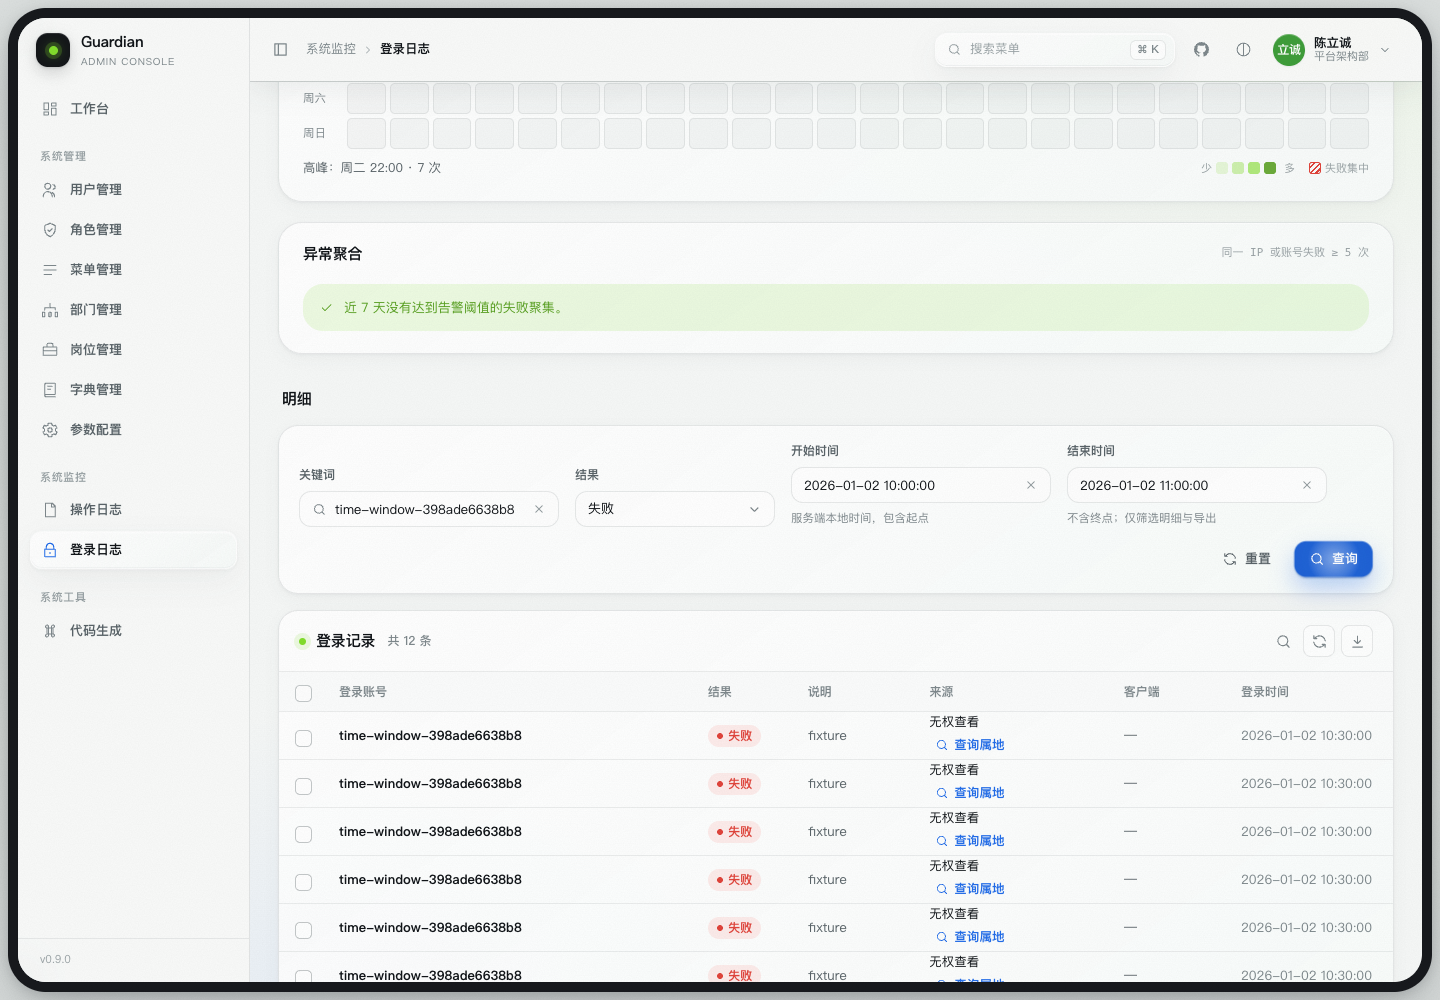
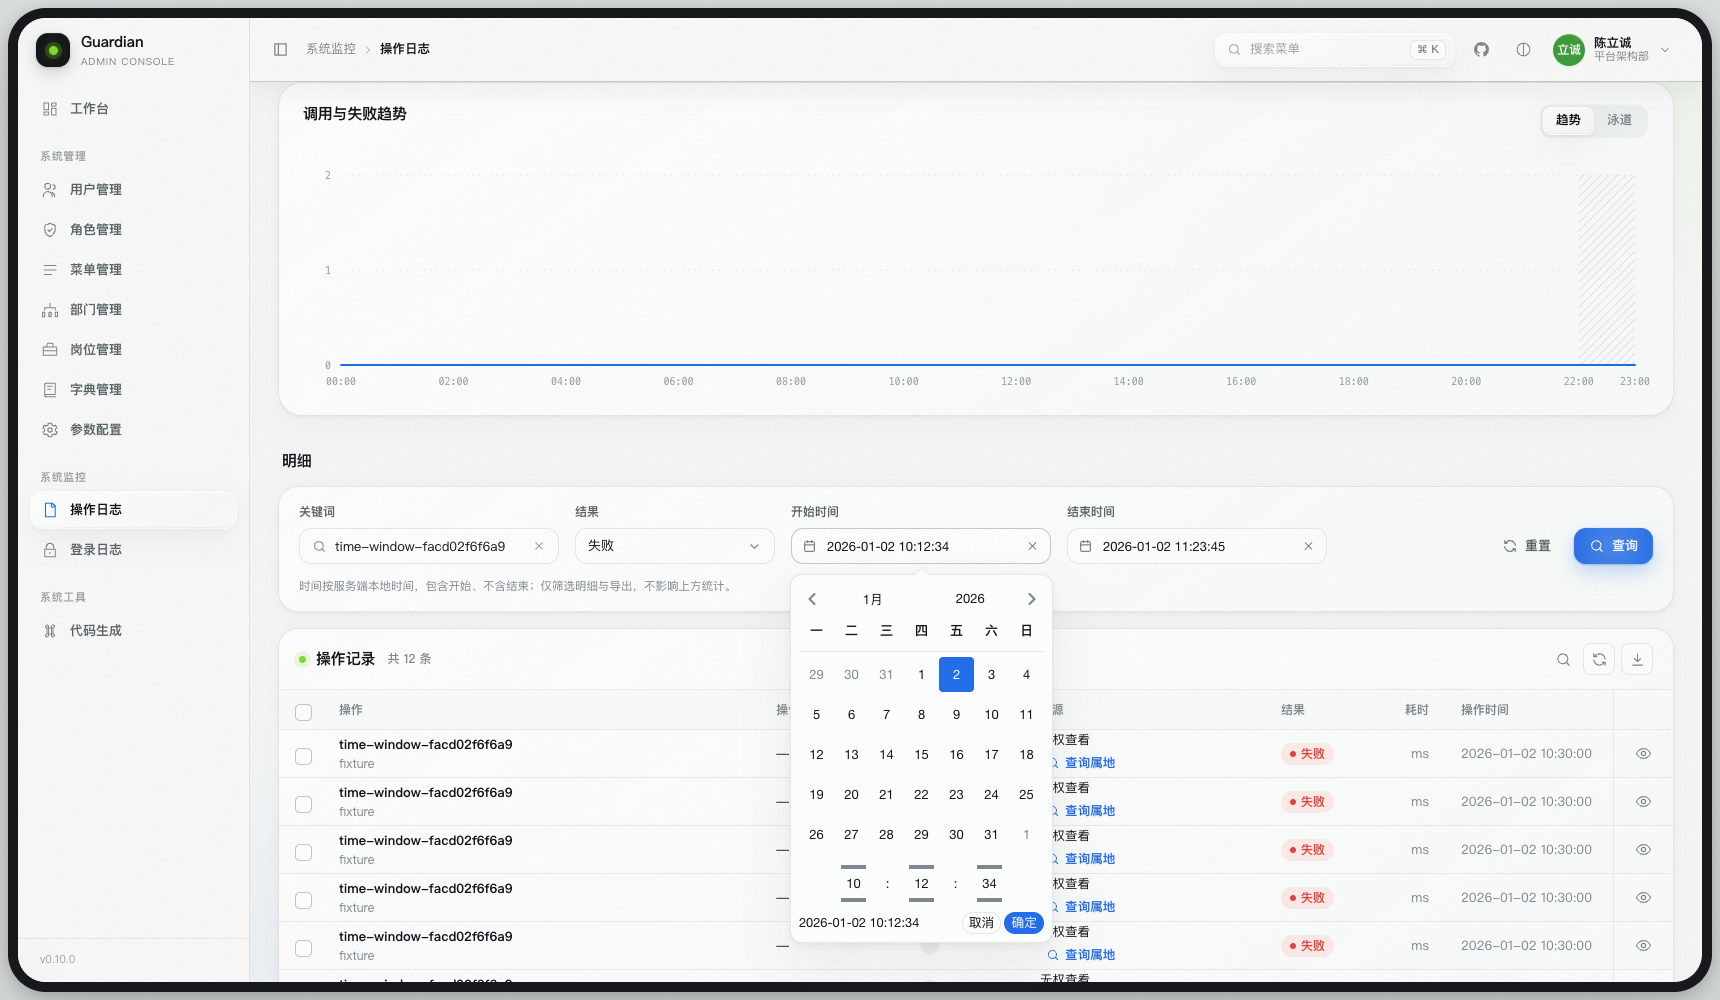
fix: 修复日志日期时间选择与筛选控件对齐 (#37)
两类日志使用现成日期及时分秒选择组件，修正四框对齐、短屏弹层与键盘焦点；保留本地时间字符串契约，真实浏览器生产构建回归与前端CI通过。关联 #32。

署名：GPT-6-Astra-Ultra

diff --git a/frontend/src/components/ui/DateTimePicker.vue b/frontend/src/components/ui/DateTimePicker.vue
@@ -1,0 +1,51 @@
+<script setup lang="ts">
+import { VueDatePicker, type TimeKey } from '@vuepic/vue-datepicker'
+import { zhCN } from 'date-fns/locale/zh-CN'
+import { nextTick, useId, useTemplateRef } from 'vue'
+
+defineProps<{ modelValue: string; label: string }>()
+const emit = defineEmits<{ (e: 'update:modelValue', value: string): void }>()
+const units = { hours: '小时', minutes: '分钟', seconds: '秒' }
+const format = 'yyyy-MM-dd HH:mm:ss'
+const picker = useTemplateRef('picker')
+const menuId = useId()
+
+function restoreFocus() {
+  if (picker.value?.dpMenuRef()?.value?.$el?.contains(document.activeElement)) {
+    void nextTick(() => picker.value?.inputRef()?.value?.focusInput())
+  }
+}
+</script>
+
+<template>
+  <!-- 字符串代表服务端墙上时间；中性时区仅防止浏览器 DST 改写选中的时分秒。 -->
+  <VueDatePicker
+    ref="picker"
+    class="datetime-picker"
+    :menu-id="menuId"
+    :model-value="modelValue || null"
+    :model-type="format"
+    :formats="{ input: format, preview: format }"
+    timezone="UTC"
+    :locale="zhCN"
+    :time-config="{ enableSeconds: true, timePickerInline: true, minutesGridIncrement: 1, secondsGridIncrement: 1, startTime: { hours: 0, minutes: 0, seconds: 0 } }"
+    :action-row="{ selectBtnLabel: '确定', cancelBtnLabel: '取消' }"
+    :aria-labels="{
+      input: label, menu: `${label}选择`, clearInput: `清空${label}`, calendarIcon: '选择日期时间',
+      openMonthsOverlay: '选择月份', openYearsOverlay: '选择年份',
+      nextMonth: '下个月', prevMonth: '上个月', nextYear: '下一年', prevYear: '上一年',
+      monthPicker: () => '月份', yearPicker: () => '年份',
+      timePicker: '选择时间', toggleOverlay: '返回',
+      openTpOverlay: (unit: TimeKey) => `选择${units[unit]}`,
+      incrementValue: (unit: TimeKey) => `增加${units[unit]}`, decrementValue: (unit: TimeKey) => `减少${units[unit]}`,
+      timeOverlay: (unit: TimeKey) => units[unit],
+    }"
+    :ui="{ menu: 'datetime-menu' }"
+    :floating="{ shift: { crossAxis: true, padding: 8 } }"
+    :transitions="false"
+    teleport
+    placeholder="选择日期和时间"
+    @update:model-value="emit('update:modelValue', $event ?? '')"
+    @closed="restoreFocus"
+  />
+</template>

diff --git a/frontend/src/views/monitor/LoginLog.vue b/frontend/src/views/monitor/LoginLog.vue
@@ -2,7 +2,7 @@
 import { computed, nextTick, onMounted, ref, watch } from 'vue'
 import { useRoute } from 'vue-router'
 import Icon from '@/components/Icon.vue'
-import { Button, Field, Metric, SectionLabel, Segmented, Select, Tag, TextInput, type Column } from '@/components/ui'
+import { Button, DateTimePicker, Field, Metric, SectionLabel, Segmented, Select, Tag, TextInput, type Column } from '@/components/ui'
 import { ListPage, PermissionButton } from '@/components/business'
 import TrendChart from '@/components/charts/TrendChart.vue'
 import HeatGrid from '@/components/charts/HeatGrid.vue'
@@ -202,12 +202,13 @@ async function clearAll() {
       <Field label="结果">
         <Select v-model="list.query.status" :options="STATUSES" />
       </Field>
-      <Field label="开始时间" wide hint="服务端本地时间，包含起点">
-        <TextInput v-model="list.query.startTime" placeholder="YYYY-MM-DD HH:MM:SS" clearable />
+      <Field label="开始时间" wide group>
+        <DateTimePicker v-model="list.query.startTime" label="开始时间" />
       </Field>
-      <Field label="结束时间" wide hint="不含终点；仅筛选明细与导出">
-        <TextInput v-model="list.query.endTime" placeholder="YYYY-MM-DD HH:MM:SS" clearable />
+      <Field label="结束时间" wide group>
+        <DateTimePicker v-model="list.query.endTime" label="结束时间" />
       </Field>
+      <p class="search-hint">时间按服务端本地时间，包含开始、不含结束；仅筛选明细与导出，不影响上方统计。</p>
     </template>
 
     <template #tools>

diff --git a/frontend/src/views/monitor/OperLog.vue b/frontend/src/views/monitor/OperLog.vue
@@ -1,7 +1,7 @@
 <script setup lang="ts">
 import { computed, nextTick, onMounted, ref, watch } from 'vue'
 import { useRoute } from 'vue-router'
-import { Button, Drawer, Field, Metric, SectionLabel, Segmented, Select, Tag, TextInput, type Column } from '@/components/ui'
+import { Button, DateTimePicker, Drawer, Field, Metric, SectionLabel, Segmented, Select, Tag, TextInput, type Column } from '@/components/ui'
 import { ListPage, PermissionButton } from '@/components/business'
 import TrendChart from '@/components/charts/TrendChart.vue'
 import Swimlane from '@/components/charts/Swimlane.vue'
@@ -199,12 +199,13 @@ async function clearAll() {
       <Field label="结果">
         <Select v-model="list.query.result" :options="RESULTS" />
       </Field>
-      <Field label="开始时间" wide hint="服务端本地时间，包含起点">
-        <TextInput v-model="list.query.startTime" placeholder="YYYY-MM-DD HH:MM:SS" clearable />
+      <Field label="开始时间" wide group>
+        <DateTimePicker v-model="list.query.startTime" label="开始时间" />
       </Field>
-      <Field label="结束时间" wide hint="不含终点；仅筛选明细与导出">
-        <TextInput v-model="list.query.endTime" placeholder="YYYY-MM-DD HH:MM:SS" clearable />
+      <Field label="结束时间" wide group>
+        <DateTimePicker v-model="list.query.endTime" label="结束时间" />
       </Field>
+      <p class="search-hint">时间按服务端本地时间，包含开始、不含结束；仅筛选明细与导出，不影响上方统计。</p>
     </template>
 
     <template #tools>

diff --git a/frontend/src/styles/components.css b/frontend/src/styles/components.css
@@ -140,6 +140,34 @@
 }
 .input-shell .input-clear:hover { color: var(--ink-muted); }
 
+/* 日期时间选择器沿用站内令牌，弹层传送到 body 后仍继承主题。 */
+.datetime-picker, .datetime-menu {
+  --dp-font-family: inherit;
+  --dp-font-size: 13px;
+  --dp-border-radius: var(--r-sm);
+  --dp-background-color: var(--surface-solid);
+  --dp-text-color: var(--ink);
+  --dp-hover-color: var(--hover-bg);
+  --dp-hover-text-color: var(--ink);
+  --dp-primary-color: var(--blue);
+  --dp-primary-text-color: #fff;
+  --dp-secondary-color: var(--ink-soft);
+  --dp-border-color: var(--line-strong);
+  --dp-menu-border-color: var(--line-strong);
+  --dp-border-color-hover: var(--ink-soft);
+  --dp-icon-color: var(--ink-soft);
+  --dp-disabled-color: var(--groove-bg);
+}
+.datetime-picker .dp--input {
+  height: var(--control-h);
+  background: var(--input-bg);
+  box-shadow: var(--edge);
+  font-size: 13px;
+}
+.datetime-picker .dp--input::placeholder { color: var(--ink-faint); opacity: 1; }
+.datetime-picker .dp--input:focus-visible { outline: 2px solid var(--focus); outline-offset: 2px; }
+.datetime-menu { box-shadow: var(--e3); }
+
 /* ── 下拉选择 ───────────────────────────────────────────────── */
 .select-trigger {
   width: 100%;

diff --git a/frontend/src/components/__tests__/datetime-picker.test.ts b/frontend/src/components/__tests__/datetime-picker.test.ts
@@ -1,0 +1,13 @@
+import test from 'node:test'
+import assert from 'node:assert/strict'
+import { renderComponent } from './support.ts'
+
+test('日期时间控件声明可访问的选择弹层且空日期不默认填入当前时间', async () => {
+  const html = await renderComponent('ui/DateTimePicker.vue', { modelValue: '', label: '结束时间' })
+  assert.match(html, /role="combobox"/)
+  assert.match(html, /aria-label="结束时间"/)
+  assert.match(html, /aria-haspopup="dialog"/)
+  assert.match(html, /aria-controls="[^"]+"/)
+  assert.match(html, / value(?:=""|(?= ))/)
+  assert.match(html, /placeholder="选择日期和时间"/)
+})

diff --git a/frontend/src/styles/layout.css b/frontend/src/styles/layout.css
@@ -303,6 +303,7 @@
 .search-form .field { width: 200px; }
 .search-form .field.is-wide { width: 260px; }
 .search-form .search-actions { display: flex; gap: 8px; margin-left: auto; }
+.search-form .search-hint { order: 1; flex-basis: 100%; margin: 0; font-size: 11.5px; color: var(--ink-soft); }
 
 /* ── 左树右表 ───────────────────────────────────────────────── */
 .split {

diff --git a/frontend/src/components/ui/index.ts b/frontend/src/components/ui/index.ts
@@ -2,6 +2,7 @@ export { default as Button } from './Button.vue'
 export { default as IconButton } from './IconButton.vue'
 export { default as Field } from './Field.vue'
 export { default as TextInput } from './TextInput.vue'
+export { default as DateTimePicker } from './DateTimePicker.vue'
 export { default as Select } from './Select.vue'
 export { default as Checkbox } from './Checkbox.vue'
 export { default as MultiCheck } from './MultiCheck.vue'

diff --git a/frontend/src/main.ts b/frontend/src/main.ts
@@ -5,6 +5,7 @@ import { installPermissionDirective } from './directives/permission'
 import { installHoverLift, installPressFeedback, installRipple } from './composables/motion'
 
 // 设计令牌 → 基础 → 材质 → 控件 → 外壳 → 页面
+import '@vuepic/vue-datepicker/dist/main.css'
 import './styles/tokens.css'
 import './styles/base.css'
 import './styles/materials.css'

diff --git a/frontend/scripts/log-window-regression.py b/frontend/scripts/log-window-regression.py
@@ -8,6 +8,7 @@ import csv
 import io
 import os
 from pathlib import Path
+import re
 import secrets
 import sqlite3
 from urllib.parse import parse_qs, urlparse
@@ -17,12 +18,52 @@ from playwright.async_api import async_playwright, expect
 from captcha_solver import solve_captcha
 
 
+async def pick_datetime(page, label, value, confirm=True):
+    """只点击组件的日期和时分秒选项，不用 fill 或注入 model 冒充点选。"""
+    date, time = value.split(" ")
+    year, month, day = map(int, date.split("-"))
+    field = page.get_by_role("search").get_by_role("combobox", name=label, exact=True)
+    await field.click()
+    menu = page.get_by_role("dialog", name=label + "选择", exact=True)
+    await menu.get_by_role("button", name=re.compile("-选择年份$")).click()
+    await menu.get_by_role("option", name=str(year), exact=True).click()
+    await menu.get_by_role("button", name=re.compile("-选择月份$")).click()
+    await menu.get_by_role("option", name=f"{month}月", exact=True).click()
+    month_name = ["一", "二", "三", "四", "五", "六", "七", "八", "九", "十", "十一", "十二"][month - 1]
+    await menu.get_by_role("gridcell", name=f"{month_name}月 {day}日, {year}", exact=True).click()
+    for unit, number in zip(["小时", "分钟", "秒"], time.split(":")):
+        await menu.get_by_role("button", name=re.compile(f"-选择{unit}$")).click()
+        await menu.get_by_role("listbox", name=unit, exact=True).get_by_role("option", name=number, exact=True).click()
+    assert await menu.evaluate("el => { const r = el.getBoundingClientRect(); return r.left >= 0 && r.right <= innerWidth && r.top >= 0 && r.bottom <= innerHeight }"), await menu.bounding_box()
+    if confirm:
+        await menu.get_by_role("button", name="确定", exact=True).click()
+        await expect(field).to_have_value(value)
+        await expect(menu).not_to_be_visible()
+    return menu
+
+
+async def check_alignment(form, width):
+    boxes = await form.locator(".input-shell, .datetime-picker input").evaluate_all(
+        "els => els.map(el => { const r = el.getBoundingClientRect(); return {top: r.top, bottom: r.bottom, left: r.left, right: r.right, height: r.height} })"
+    )
+    assert len(boxes) == 4, boxes
+    assert max(b["height"] for b in boxes) - min(b["height"] for b in boxes) < 0.5, boxes
+    assert all(0 <= b["left"] < b["right"] <= width for b in boxes), boxes
+    if width >= 1440:
+        assert max(b["top"] for b in boxes) - min(b["top"] for b in boxes) < 0.5, boxes
+        assert max(b["bottom"] for b in boxes) - min(b["bottom"] for b in boxes) < 0.5, boxes
+    else:
+        assert max(b["left"] for b in boxes) - min(b["left"] for b in boxes) < 0.5, boxes
+        assert max(b["right"] for b in boxes) - min(b["right"] for b in boxes) < 0.5, boxes
+    return boxes
+
+
 async def main():
     base = os.environ.get("GUARDIAN_TEST_URL", "http://127.0.0.1:5173")
     database = Path(os.environ["GUARDIAN_TEST_DB"]).resolve(strict=True)
     password = os.environ["GUARDIAN_TEST_PASSWORD"]
     keyword = "time-window-" + secrets.token_hex(6)
-    start, end = "2026-01-02 10:00:00", "2026-01-02 11:00:00"
+    start, end = "2026-01-02 10:12:34", "2026-01-02 11:23:45"
     logs = [
         ("oper-logs", "oper-log", "sys_oper_log", "module", "oper_time", "result", "action"),
         ("login-logs", "login-log", "sys_login_log", "username", "login_time", "status", "msg"),
@@ -30,7 +71,7 @@ async def main():
     with sqlite3.connect(database) as db:
         for _, _, table, name, time, status, detail in logs:
             rows = [(keyword, start, 0, "fixture")] + [(keyword, "2026-01-02 10:30:00", 0, "fixture")] * 11
-            rows += [(keyword, t, s, "fixture") for t, s in [("2026-01-02 09:59:59", 0), (end, 0), ("2026-01-02 11:00:01", 0), (start, 1)]]
+            rows += [(keyword, t, s, "fixture") for t, s in [("2026-01-02 10:12:33", 0), (end, 0), ("2026-01-02 11:23:46", 0), (start, 1)]]
             db.executemany(f"INSERT INTO {table} ({name},{time},{status},{detail}) VALUES (?,?,?,?)", rows)
     try:
         async with async_playwright() as pw:
@@ -53,12 +94,12 @@ async def main():
                     form = page.get_by_role("search")
                     await expect(form).to_be_visible()
                     await form.locator(".field").filter(has_text="关键词").locator("input").fill(keyword)
-                    await form.get_by_role("combobox").click()
+                    await form.get_by_role("combobox", name="结果", exact=True).click()
                     await page.get_by_role("option", name="失败", exact=True).click()
-                    start_input = form.get_by_label("开始时间", exact=False)
-                    end_input = form.get_by_label("结束时间", exact=False)
-                    await start_input.fill(start)
-                    await end_input.fill(end)
+                    start_input = form.get_by_role("combobox", name="开始时间", exact=True)
+                    end_input = form.get_by_role("combobox", name="结束时间", exact=True)
+                    await pick_datetime(page, "开始时间", start)
+                    await pick_datetime(page, "结束时间", end)
 
                     async def query(action, expected_total, expected_start=start, expected_end=end, expected_page="1", expected_keyword=keyword):
                         async with page.expect_response(lambda response: urlparse(response.url).path == f"/api/v1/monitor/{resource}") as pending:
@@ -95,36 +136,55 @@ async def main():
                     await query(form.get_by_role("button", name="重置", exact=True).click, None, None, None, expected_keyword=None)
                     await expect(start_input).to_have_value("")
                     await expect(end_input).to_have_value("")
+                    await pick_datetime(page, "开始时间", "2024-02-29 23:59:59")
                     await form.locator(".field").filter(has_text="关键词").locator("input").fill(keyword)
-                    await form.get_by_role("combobox").click()
+                    await form.get_by_role("combobox", name="结果", exact=True).click()
                     await page.get_by_role("option", name="失败", exact=True).click()
-                    await start_input.fill(start)
-                    await end_input.fill(end)
-                    await form.locator(".field").filter(has_text="结束时间").get_by_role("button", name="清空", exact=True).click()
+                    await pick_datetime(page, "开始时间", start)
+                    await pick_datetime(page, "结束时间", end)
+                    await form.get_by_role("button", name="清空结束时间", exact=True).click()
                     await query(search, 14, expected_end=None)
-                    await start_input.fill("2027-01-01 00:00:00")
+                    await pick_datetime(page, "开始时间", "2027-01-01 00:00:00")
                     await query(search, 0, "2027-01-01 00:00:00", None)
                     await expect(page.locator(".empty")).to_be_visible()
-                    await start_input.fill("invalid")
+                    # 浏览器纽约时区不存在的时刻，仍须原样传输服务端墙上时间。
+                    await pick_datetime(page, "开始时间", "2026-03-08 02:30:45")
+                    await query(search, 0, "2026-03-08 02:30:45", None)
+                    await start_input.click()
+                    await page.keyboard.press("Escape")
+                    await expect(start_input).to_have_value("2026-03-08 02:30:45")
+                    await expect(start_input).to_be_focused()
+                    await pick_datetime(page, "开始时间", end)
+                    await pick_datetime(page, "结束时间", end)
                     async with page.expect_response(lambda response: urlparse(response.url).path == f"/api/v1/monitor/{resource}") as invalid:
                         await search()
                     assert (await invalid.value).status == 400
-                    await expect(page.locator(".toast").filter(has_text="startTime")).to_be_visible()
-                    await page.locator(".toast").filter(has_text="startTime").get_by_role("button").click()
-                    await start_input.fill(start)
-                    await end_input.fill(end)
+                    await expect(page.locator(".toast")).to_be_visible()
+                    await page.locator(".toast").get_by_role("button").click()
+                    await pick_datetime(page, "开始时间", start)
+                    menu = await pick_datetime(page, "开始时间", "2026-01-03 23:59:59", confirm=False)
+                    await menu.get_by_role("button", name="取消", exact=True).click()
+                    await expect(start_input).to_have_value(start)
                     await query(search, 12)
-                    for width in [1440, 390]:
-                        await page.set_viewport_size({"width": width, "height": 1000})
+                    for width in [1720, 1440, 820, 390, 320]:
+                        await page.set_viewport_size({"width": width, "height": 568 if width == 320 else 844 if width == 390 else 1000})
                         await form.scroll_into_view_if_needed()
                         await expect(start_input).to_be_visible()
+                        await pick_datetime(page, "开始时间", start)
+                        await pick_datetime(page, "结束时间", end)
                         await query(search, 12)
+                        boxes = await check_alignment(form, width)
                         if output := os.environ.get("GUARDIAN_TEST_SCREENSHOTS"):
                             Path(output).mkdir(parents=True, exist_ok=True)
+                            await form.screenshot(path=str(Path(output) / f"{resource}-{width}-form.png"))
+                            await start_input.click()
                             await page.screenshot(path=str(Path(output) / f"{resource}-{width}.png"))
-                        assert await start_input.evaluate("el => el.getBoundingClientRect().right <= innerWidth"), await start_input.bounding_box()
+                            await page.keyboard.press("Escape")
+                        print(f"PASS {resource} width={width}: aligned {boxes}")
                     await page.set_viewport_size({"width": 1440, "height": 1000})
-                    print(f"PASS {resource}: boundaries, pagination, CSV, reset, clear, empty, 400, desktop/mobile, no timezone conversion")
+                    await form.get_by_role("button", name="清空开始时间", exact=True).click()
+                    await query(search, 13, expected_start=None)
+                    print(f"PASS {resource}: actual date/hour/minute/second selection, cancel, Escape, boundaries, pagination, CSV, reset, clear, empty, 400, desktop/mobile, DST-safe strings")
                 assert not errors, errors
             finally:
                 await browser.close()

diff --git a/frontend/README.md b/frontend/README.md
@@ -44,6 +44,20 @@ npm run build
 用户管理的「重置2FA」按钮由 `system:user:reset2fa` 权限控制，需输入操作者密码，不使用重置密码权限替代。
 后端密钥配置与恢复流程见 [生产部署](../docs/DEPLOYMENT.md#二次认证密钥与恢复)。
 
+## 日志时间筛选
+
+操作日志和登录日志的开始 / 结束时间使用 `@vuepic/vue-datepicker`：点击日期框，在同一面板选择日期与
+时、分、秒，点击「确定」应用；「取消」或 Escape 放弃未确认的修改，清空按钮移除单侧边界，重置清空两侧。
+四个筛选控件等高对齐，时间说明独立成行；窄屏竖排，弹层自动避让视口边缘。
+
+`ui/DateTimePicker` 只绑定 `yyyy-MM-dd HH:mm:ss` 字符串，语义仍是服务端本地时间，不转 UTC 时间戳。
+组件内部固定中性时区以避免浏览器夏令时缺口改写墙上时间；它不代表接口改为 UTC。
+筛选包含开始、不包含结束，仅作用于明细、分页与 CSV 导出，不改变上方统计窗口。
+
+`scripts/log-window-regression.py` 在独立测试数据库上实际点选日期和三个时间选项，并检查秒级边界、取消、
+清空 / 重置、分页 / CSV、浏览器夏令时缺口，以及 1720 / 1440 / 820 / 390 / 320px 的控件边界与弹层。
+运行要求与脚本头部环境变量说明一致，不应连接生产数据库。
+
 ## 目录
 
 | 路径 | 中文职责 |

diff --git a/docs/version/UNRELEASE.md b/docs/version/UNRELEASE.md
@@ -9,4 +9,5 @@
 
 ## 前端
 
-- 无。
+- 操作日志与登录日志改用可直接选择日期、时、分、秒的日期时间组件，支持清空和取消，保留服务端本地时间及半开区间查询 / 导出契约。
+- 修正时间字段说明导致四个筛选控件高低不齐的问题，统一控件高度并将说明独立成行；补充实际点选、对齐及桌面 / 窄屏回归。
